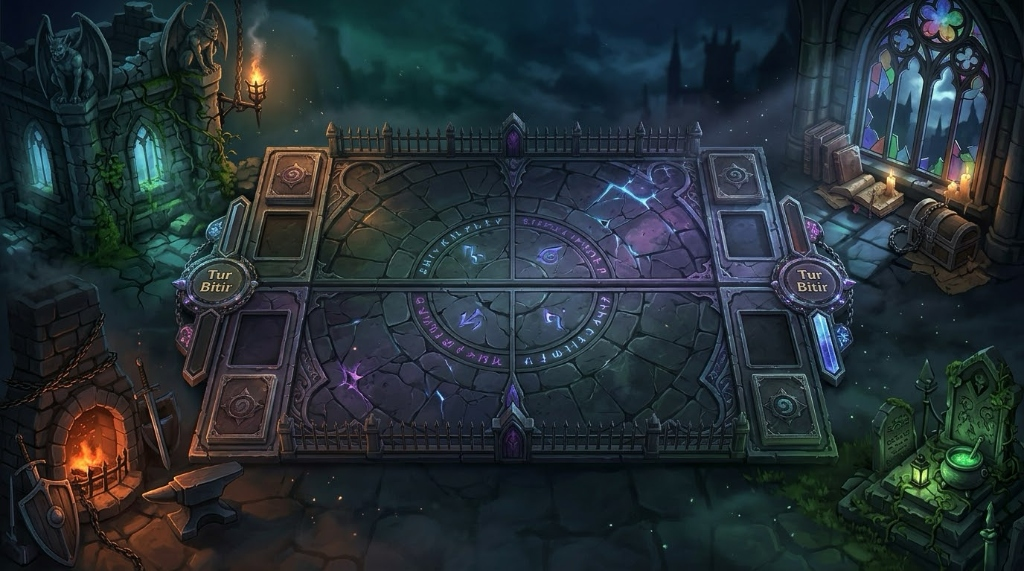
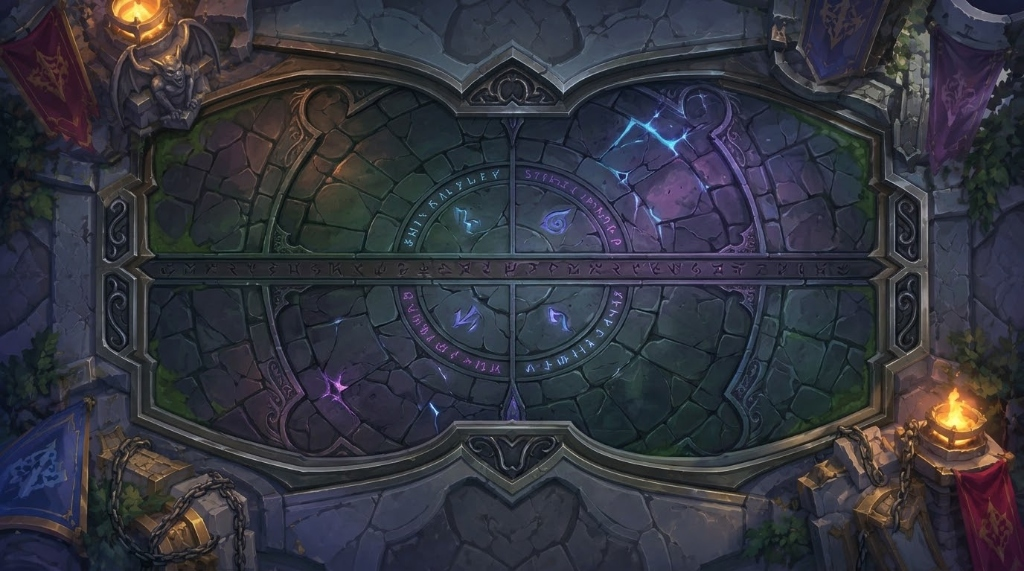
feat: apply top-down gothic stone arena background directly with torch and rune glows

diff --git a/game.js b/game.js
@@ -1580,26 +1580,9 @@ on('#b2',hostRoom);on('#b3',joinRoom);
   const bgImg=new Image();
   let bgLoaded=false;
   bgImg.onload=()=>{bgLoaded=true;};
-  bgImg.src='board_gothic.jpg?v=20261114_stone1';
+  bgImg.src='board_gothic.jpg?v=20261115_topdown1';
 
   const particles=[];
-  const RUNES='ᚠᚢᚦᚨᚱᚲᚷᚹᚺᚾᛁᛃᛇᛈᛉᛊᛏᛒᛖᛗᛚᛜᛞᛟ';
-
-  // Sabit kırık taş derz ağı (normalize koordinatlar -0.5..0.5)
-  const stonePolys=[
-    [[-0.48,-0.46],[-0.26,-0.46],[-0.23,-0.25],[-0.48,-0.22]],
-    [[-0.26,-0.46],[-0.02,-0.46],[-0.04,-0.24],[-0.23,-0.25]],
-    [[0.02,-0.46],[0.25,-0.46],[0.22,-0.23],[0.03,-0.25]],
-    [[0.25,-0.46],[0.48,-0.46],[0.48,-0.21],[0.22,-0.23]],
-    [[-0.48,-0.22],[-0.23,-0.25],[-0.20,-0.03],[-0.48,-0.02]],
-    [[0.22,-0.23],[0.48,-0.21],[0.48,-0.02],[0.20,-0.03]],
-    [[-0.48,0.02],[-0.20,0.03],[-0.24,0.25],[-0.48,0.23]],
-    [[0.20,0.03],[0.48,0.02],[0.48,0.24],[0.23,0.25]],
-    [[-0.48,0.23],[-0.24,0.25],[-0.27,0.46],[-0.48,0.46]],
-    [[-0.24,0.25],[-0.03,0.24],[-0.02,0.46],[-0.27,0.46]],
-    [[0.03,0.24],[0.23,0.25],[0.26,0.46],[0.02,0.46]],
-    [[0.23,0.25],[0.48,0.24],[0.48,0.46],[0.26,0.46]]
-  ];
 
   function seedParticles(){
     particles.length=0;
@@ -1651,7 +1634,7 @@ on('#b2',hostRoom);on('#b3',joinRoom);
     const t=now*0.001;
     ctx.clearRect(0,0,W,H);
 
-    // 1. ARKA PLAN: Gotik Katedral Avlusu, Demirci Ocağı, Gargoyle Kulesi, Vitray Kütüphane ve Mezarlık
+    // 1. ARKA PLAN: Üstten Görünümlü Gotik Taş Arena, 4 Çeyrekli Rünik Çember ve Orta Rün Yarığı
     if(bgLoaded && bgImg.naturalWidth>0){
       const iw=bgImg.naturalWidth, ih=bgImg.naturalHeight;
       const scale=Math.max(W/iw, H/ih);
@@ -1659,26 +1642,9 @@ on('#b2',hostRoom);on('#b3',joinRoom);
       const dx=(W-dw)*0.5, dy=(H-dh)*0.5;
       ctx.drawImage(bgImg, dx, dy, dw, dh);
 
-      // Görselin kendi içindeki sabit "Tur Bitir" yazılarını taş dokusuyla kapat (gerçek butonlarımız üstünde duracak)
-      [0.206, 0.795].forEach(uPos => {
-        const cx = dx + dw * uPos;
-        const cy = dy + dh * 0.472;
-        const rx = dw * 0.031;
-        const ry = dh * 0.048;
-        ctx.save();
-        ctx.beginPath();
-        ctx.ellipse(cx, cy, rx, ry, 0, 0, Math.PI*2);
-        const og = ctx.createRadialGradient(cx, cy, 2, cx, cy, Math.max(rx, ry));
-        og.addColorStop(0, '#2a2636');
-        og.addColorStop(0.7, '#1b1824');
-        og.addColorStop(1, '#121018');
-        ctx.fillStyle = og;
-        ctx.fill();
-        ctx.restore();
-      });
-
-      // Köşe ışık efektleri (Sol üst meşale, sol alt demirci ocağı, sağ alt yeşil kazan, sağ üst mumlar)
-      const flicker = 0.75 + 0.25*Math.sin(t*7.3)*Math.cos(t*4.1);
+      // Meşale & rünik çatlak parıltıları (sol üst ateş kasesi, sağ alt ateş kasesi, mavi & mor rün çatlakları)
+      const flicker = 0.78 + 0.22*Math.sin(t*7.1)*Math.cos(t*4.3);
+      const runePulse = 0.65 + 0.35*Math.sin(t*2.4);
       const drawLight = (u, v, rad, col) => {
         const lx = dx + dw*u, ly = dy + dh*v, lr = Math.min(W,H)*rad;
         const lg = ctx.createRadialGradient(lx, ly, 2, lx, ly, lr);
@@ -1687,10 +1653,10 @@ on('#b2',hostRoom);on('#b3',joinRoom);
         ctx.fillStyle = lg;
         ctx.fillRect(lx-lr, ly-lr, lr*2, lr*2);
       };
-      drawLight(0.251, 0.135, 0.16, `rgba(255, 145, 45, ${0.22*flicker})`);
-      drawLight(0.085, 0.765, 0.20, `rgba(255, 110, 30, ${0.25*flicker})`);
-      drawLight(0.925, 0.815, 0.18, `rgba(80, 255, 120, ${0.18*(0.8+0.2*Math.sin(t*3.2))})`);
-      drawLight(0.895, 0.315, 0.14, `rgba(255, 200, 110, ${0.18*flicker})`);
+      drawLight(0.135, 0.045, 0.22, `rgba(255, 155, 55, ${0.28*flicker})`);
+      drawLight(0.935, 0.760, 0.22, `rgba(255, 145, 45, ${0.28*flicker})`);
+      drawLight(0.620, 0.250, 0.18, `rgba(75, 220, 255, ${0.18*runePulse})`);
+      drawLight(0.320, 0.780, 0.18, `rgba(205, 105, 255, ${0.18*runePulse})`);
     } else {
       const g=ctx.createRadialGradient(W*0.5,H*0.5,40,W*0.5,H*0.5,Math.max(W,H)*0.75);
       g.addColorStop(0,'#1b222c');
@@ -1700,275 +1666,7 @@ on('#b2',hostRoom);on('#b3',joinRoom);
       ctx.fillRect(0,0,W,H);
     }
 
-    // 2. ORTADAKİ OYMA TAŞLI & RÜNİK ÇEMBERLİ SAVAŞ TAHTASI (Her çözünürlükte #opp, #fx ve #me ile birebir hizalı)
-    const boardW = Math.min(W - 36, Math.min(W * 0.74, 1160));
-    const boardH = Math.min(H - 116, H * 0.80);
-    const boardL = (W - boardW) * 0.5;
-    const boardR = boardL + boardW;
-    const midX = W * 0.5;
-    const midY = H * 0.5;
-    const boardT = midY - boardH * 0.5;
-    const boardB = midY + boardH * 0.5;
-
-    ctx.save();
-    // Dış taş gölgesi
-    ctx.shadowColor = 'rgba(0, 0, 0, 0.92)';
-    ctx.shadowBlur = 34;
-    ctx.shadowOffsetY = 12;
-
-    // Ana taş tabla gövdesi (koyu arduvaz/bazalt)
-    const slabGrad = ctx.createLinearGradient(boardL, boardT, boardL, boardB);
-    slabGrad.addColorStop(0, 'rgba(32, 31, 42, 0.92)');
-    slabGrad.addColorStop(0.48, 'rgba(24, 23, 33, 0.90)');
-    slabGrad.addColorStop(0.52, 'rgba(22, 23, 32, 0.90)');
-    slabGrad.addColorStop(1, 'rgba(28, 27, 37, 0.93)');
-    ctx.fillStyle = slabGrad;
-    ctx.beginPath();
-    ctx.roundRect(boardL, boardT, boardW, boardH, 10);
-    ctx.fill();
-    ctx.restore();
-
-    // Yanlardaki oyma taş kart yuvası kanalları (sol ve sağ taş bordürler)
-    const railW = Math.max(36, Math.min(68, boardW * 0.068));
-    const innerL = boardL + railW;
-    const innerR = boardR - railW;
-    const innerW = innerR - innerL;
-    const innerPadY = 14;
-    const innerT = boardT + innerPadY;
-    const innerB = boardB - innerPadY;
-    const innerH = innerB - innerT;
-
-    // Kırık taş döşeme karoları (İç saha)
-    ctx.save();
-    stonePolys.forEach((poly, idx) => {
-      ctx.beginPath();
-      poly.forEach((pt, i) => {
-        const px = midX + pt[0] * innerW;
-        const py = midY + pt[1] * innerH;
-        if(i===0) ctx.moveTo(px, py);
-        else ctx.lineTo(px, py);
-      });
-      ctx.closePath();
-      ctx.fillStyle = idx%3===0 ? 'rgba(42, 41, 55, 0.65)' : (idx%2===0 ? 'rgba(31, 30, 42, 0.65)' : 'rgba(25, 24, 34, 0.65)');
-      ctx.fill();
-      ctx.lineWidth = 2.2;
-      ctx.strokeStyle = 'rgba(9, 8, 13, 0.85)';
-      ctx.stroke();
-    });
-
-    // Taş yüzeyindeki ince kırık çatlak çizgileri
-    ctx.strokeStyle = 'rgba(8, 7, 12, 0.78)';
-    ctx.lineWidth = 1.6;
-    for(let i=-3;i<=3;i++){
-      if(i===0) continue;
-      const gx = midX + (innerW * 0.14 * i);
-      ctx.beginPath();
-      ctx.moveTo(gx, innerT);
-      ctx.lineTo(gx + (i%2===0?12:-10), midY);
-      ctx.lineTo(gx - (i%2===0?8:-14), innerB);
-      ctx.stroke();
-    }
-    ctx.restore();
-
-    // Taş çatlaklarından sızan Mavi (Cyan) ve Mor (Arcane Violet) büyü enerjisi (referans görseldeki gibi)
-    const crackPulse = 0.72 + 0.28 * Math.sin(t * 2.4);
-    // Sağ üst mavi/camgöbeği parlayan taş çatlağı
-    drawCrackedLightning([
-      [midX + innerW*0.14, midY - innerH*0.36],
-      [midX + innerW*0.20, midY - innerH*0.28],
-      [midX + innerW*0.28, midY - innerH*0.31],
-      [midX + innerW*0.33, midY - innerH*0.22]
-    ], '#9bf4ff', '#00d9ff', 2.4, crackPulse);
-    drawCrackedLightning([
-      [midX + innerW*0.20, midY - innerH*0.28],
-      [midX + innerW*0.17, midY - innerH*0.19]
-    ], '#7ceaff', '#00d9ff', 1.6, crackPulse*0.85);
-
-    // Sol alt mor/eflatun parlayan taş çatlağı
-    drawCrackedLightning([
-      [midX - innerW*0.34, midY + innerH*0.33],
-      [midX - innerW*0.27, midY + innerH*0.26],
-      [midX - innerW*0.21, midY + innerH*0.30],
-      [midX - innerW*0.15, midY + innerH*0.21]
-    ], '#f0a6ff', '#c832ff', 2.4, crackPulse);
-    drawCrackedLightning([
-      [midX - innerW*0.09, midY + innerH*0.38],
-      [midX - innerW*0.06, midY + innerH*0.29]
-    ], '#7ceaff', '#00d9ff', 1.8, crackPulse*0.8);
-
-    // 3. MERKEZİ OYMA RÜNİK TAŞ ÇEMBER (4 Çeyreğe Bölünmüş Kadim Rün Halkası)
-    const rOut = Math.min(innerW * 0.24, innerH * 0.39);
-    const rMid = rOut * 0.76;
-    const rCore = rOut * 0.16;
-
-    ctx.save();
-    // Çemberin taş oyuk gölgesi
-    const ringGrad = ctx.createRadialGradient(midX, midY, rCore, midX, midY, rOut);
-    ringGrad.addColorStop(0, 'rgba(18, 17, 26, 0.55)');
-    ringGrad.addColorStop(0.74, 'rgba(26, 24, 38, 0.72)');
-    ringGrad.addColorStop(0.78, 'rgba(14, 12, 22, 0.92)');
-    ringGrad.addColorStop(1, 'rgba(16, 14, 24, 0.88)');
-    ctx.fillStyle = ringGrad;
-    ctx.beginPath();
-    ctx.arc(midX, midY, rOut, 0, Math.PI*2);
-    ctx.fill();
-
-    // Çember taş kenar olukları
-    [rOut, rOut*0.95, rMid, rMid*0.93].forEach((rad, i) => {
-      ctx.beginPath();
-      ctx.arc(midX, midY, rad, 0, Math.PI*2);
-      ctx.lineWidth = i%2===0 ? 2.5 : 1.2;
-      ctx.strokeStyle = i%2===0 ? '#09080e' : 'rgba(145, 135, 175, 0.32)';
-      ctx.stroke();
-    });
-
-    // Halka üzerindeki 24 parlayan rün harfi (Sol taraf mor, sağ taraf mavi/cyan)
-    const rText = (rOut * 0.95 + rMid) * 0.5;
-    ctx.font = `700 ${Math.max(11, Math.round(rOut * 0.11))}px "Cinzel", serif`;
-    ctx.textAlign = 'center';
-    ctx.textBaseline = 'middle';
-    const runeCount = 24;
-    for(let i=0;i<runeCount;i++){
-      const ang = (i / runeCount) * Math.PI * 2;
-      // Yatay ve dikey taş yarıkların tam üstüne denk gelen yerleri boş bırak
-      if(Math.abs(Math.cos(ang)) > 0.96 || Math.abs(Math.sin(ang)) > 0.96) continue;
-      const rx = midX + Math.cos(ang) * rText;
-      const ry = midY + Math.sin(ang) * rText;
-      const isCyan = (Math.cos(ang) > 0 && Math.sin(ang) < 0) || (Math.cos(ang) < 0 && Math.sin(ang) < 0 && i%2===0) || (Math.cos(ang) > 0 && Math.sin(ang) > 0);
-      const glow = 0.65 + 0.35 * Math.sin(t * 2.8 + i * 0.7);
-      ctx.save();
-      ctx.translate(rx, ry);
-      ctx.rotate(ang + Math.PI * 0.5);
-      ctx.shadowColor = isCyan ? '#00e1ff' : '#d946ff';
-      ctx.shadowBlur = 10;
-      ctx.fillStyle = isCyan ? `rgba(135, 245, 255, ${glow})` : `rgba(238, 145, 255, ${glow})`;
-      ctx.fillText(RUNES[i % RUNES.length], 0, 0);
-      ctx.restore();
-    }
-
-    // Çemberin 4 iç çeyreğindeki 4 büyük oyma rün sembolü (referans görseldeki gibi)
-    const quadRunes = [
-      { dx: -rMid*0.44, dy: -rMid*0.42, ch: 'ᛟ', cyan: true },
-      { dx:  rMid*0.44, dy: -rMid*0.42, ch: 'ᚲ', cyan: true },
-      { dx: -rMid*0.44, dy:  rMid*0.42, ch: 'ᛇ', cyan: false },
-      { dx:  rMid*0.44, dy:  rMid*0.42, ch: 'ᛋ', cyan: true }
-    ];
-    ctx.font = `900 ${Math.max(18, Math.round(rOut * 0.22))}px "Cinzel Decorative", serif`;
-    quadRunes.forEach((qr, qi) => {
-      const qGlow = 0.6 + 0.4 * Math.sin(t * 2.1 + qi * 1.4);
-      ctx.save();
-      ctx.shadowColor = qr.cyan ? '#00e1ff' : '#d946ff';
-      ctx.shadowBlur = 16;
-      ctx.fillStyle = qr.cyan ? `rgba(130, 242, 255, ${qGlow})` : `rgba(235, 140, 255, ${qGlow})`;
-      ctx.fillText(qr.ch, midX + qr.dx, midY + qr.dy);
-      ctx.restore();
-    });
-    ctx.restore();
-
-    // 4. TAHTAYI ORTADAN DÖRDE BÖLEN OYMA TAŞ KANALLAR (+ Haç Yarığı: Yatay ve Dikey Taş Bordür)
-    ctx.save();
-    // Dikey taş oluk (midX)
-    const vSeamGrad = ctx.createLinearGradient(midX - 6, innerT, midX + 6, innerT);
-    vSeamGrad.addColorStop(0, '#49455c');
-    vSeamGrad.addColorStop(0.5, '#09080e');
-    vSeamGrad.addColorStop(1, '#49455c');
-    ctx.fillStyle = vSeamGrad;
-    ctx.fillRect(midX - 5, innerT, 10, innerH);
-
-    // Yatay taş oluk (midY - Tahtayı Üst ve Alt olarak ikiye yaran ana taş yarık)
-    const hSeamGrad = ctx.createLinearGradient(innerL, midY - 7, innerL, midY + 7);
-    hSeamGrad.addColorStop(0, '#544e68');
-    hSeamGrad.addColorStop(0.3, '#120f1a');
-    hSeamGrad.addColorStop(0.5, '#a855f7');
-    hSeamGrad.addColorStop(0.7, '#120f1a');
-    hSeamGrad.addColorStop(1, '#544e68');
-    ctx.fillStyle = hSeamGrad;
-    ctx.fillRect(innerL, midY - 6, innerW, 12);
-
-    // Üst ve Alt merkezdeki mor kristal dikilitaş uçları (referans görseldeki mor kristalli taş kulecikler)
-    const drawCrystalSpire = (cx, cy, dirY) => {
-      ctx.save();
-      ctx.beginPath();
-      ctx.moveTo(cx - 14, cy);
-      ctx.lineTo(cx, cy + dirY * 26);
-      ctx.lineTo(cx + 14, cy);
-      ctx.closePath();
-      ctx.fillStyle = '#383447';
-      ctx.fill();
-      ctx.strokeStyle = '#6c6587';
-      ctx.lineWidth = 1.5;
-      ctx.stroke();
-
-      // İçindeki parlayan ametist/mor kristal
-      ctx.beginPath();
-      ctx.moveTo(cx - 6, cy + dirY * 3);
-      ctx.lineTo(cx, cy + dirY * 19);
-      ctx.lineTo(cx + 6, cy + dirY * 3);
-      ctx.closePath();
-      ctx.fillStyle = '#c054ff';
-      ctx.shadowColor = '#d946ff';
-      ctx.shadowBlur = 12;
-      ctx.fill();
-      ctx.restore();
-    };
-    drawCrystalSpire(midX, innerT, 1);
-    drawCrystalSpire(midX, innerB, -1);
-    ctx.restore();
-
-    // 5. DIŞ TAŞ ÇERÇEVE, SOL/SAĞ TAŞ KART YUVALARI VE ÜST/ALT GOTİK DEMİR PARMAKLIKLAR
-    ctx.save();
-    // Dış taş bordür çerçevesi
-    ctx.lineWidth = 4;
-    ctx.strokeStyle = '#524e63';
-    ctx.strokeRect(boardL + 2, boardT + 2, boardW - 4, boardH - 4);
-    ctx.lineWidth = 2;
-    ctx.strokeStyle = '#262330';
-    ctx.strokeRect(innerL, innerT, innerW, innerH);
-
-    // Sol ve Sağ taş bordür üzerindeki oyma kart yuvaları (referans görseldeki yan taş bölmeler)
-    [boardL + 6, innerR + 4].forEach(rx => {
-      const rw = railW - 10;
-      const slotH = Math.min(76, innerH * 0.22);
-      // Üst ve alt oyma taş yuva
-      [innerT + 14, innerB - 14 - slotH].forEach(sy => {
-        ctx.fillStyle = 'rgba(14, 13, 20, 0.82)';
-        ctx.fillRect(rx, sy, rw, slotH);
-        ctx.strokeStyle = '#5b5670';
-        ctx.lineWidth = 1.5;
-        ctx.strokeRect(rx, sy, rw, slotH);
-        // Spiral rün mührü
-        ctx.beginPath();
-        ctx.arc(rx + rw*0.5, sy + slotH*0.5, Math.min(rw, slotH)*0.24, 0, Math.PI*2);
-        ctx.strokeStyle = 'rgba(165, 155, 195, 0.35)';
-        ctx.stroke();
-      });
-    });
-
-    // Üst ve Alt Gotik Dövme Demir Parmaklık Mızrakları
-    const spikes = 22;
-    ctx.fillStyle = '#3c394a';
-    ctx.strokeStyle = '#191722';
-    ctx.lineWidth = 1;
-    for(let i=1;i<spikes;i++){
-      const sx = innerL + (innerW * i) / spikes;
-      // Üst parmaklık ucu
-      ctx.beginPath();
-      ctx.moveTo(sx - 3, boardT + 4);
-      ctx.lineTo(sx, boardT - 7);
-      ctx.lineTo(sx + 3, boardT + 4);
-      ctx.closePath();
-      ctx.fill();
-      // Alt parmaklık ucu
-      ctx.beginPath();
-      ctx.moveTo(sx - 3, boardB - 4);
-      ctx.lineTo(sx, boardB + 7);
-      ctx.lineTo(sx + 3, boardB - 4);
-      ctx.closePath();
-      ctx.fill();
-    }
-    ctx.restore();
-
-    // 6. CANLI ATMOSFER PARÇACIKLARI (Ateş Kıvılcımları, Kazan Buharı, Rün Tozları)
+    // 2. CANLI ATMOSFER PARÇACIKLARI (Meşale Kıvılcımları ve Rün Tozları)
     particles.forEach(p => {
       p.x += p.vx;
       p.y += p.vy;

diff --git a/sw.js b/sw.js
@@ -1,4 +1,4 @@
-const C='nd-v30-handfix';
+const C='nd-v31-topdown';
 self.addEventListener('install',e=>{e.waitUntil(caches.open(C).then(c=>c.addAll(['./','index.html','style.css','retro.css','game.js','images.js','manifest.json']).catch(()=>{})));self.skipWaiting()});
 self.addEventListener('activate',e=>e.waitUntil(caches.keys().then(k=>Promise.all(k.filter(x=>x!=C).map(x=>caches.delete(x)))).then(()=>self.clients.claim())));
 self.addEventListener('fetch',e=>{

diff --git a/index.html b/index.html
@@ -83,6 +83,6 @@
 <script src="audio_data.js?v=20261114_tavern1"></script>
 <script src="hd.js?v=20261113_allhd"></script>
 <script src="d20_canvas.js?v=20261113_matte"></script>
-<script src="game.js?v=20261114_chess1"></script>
+<script src="game.js?v=20261115_topdown1"></script>
 </body>
 </html>
